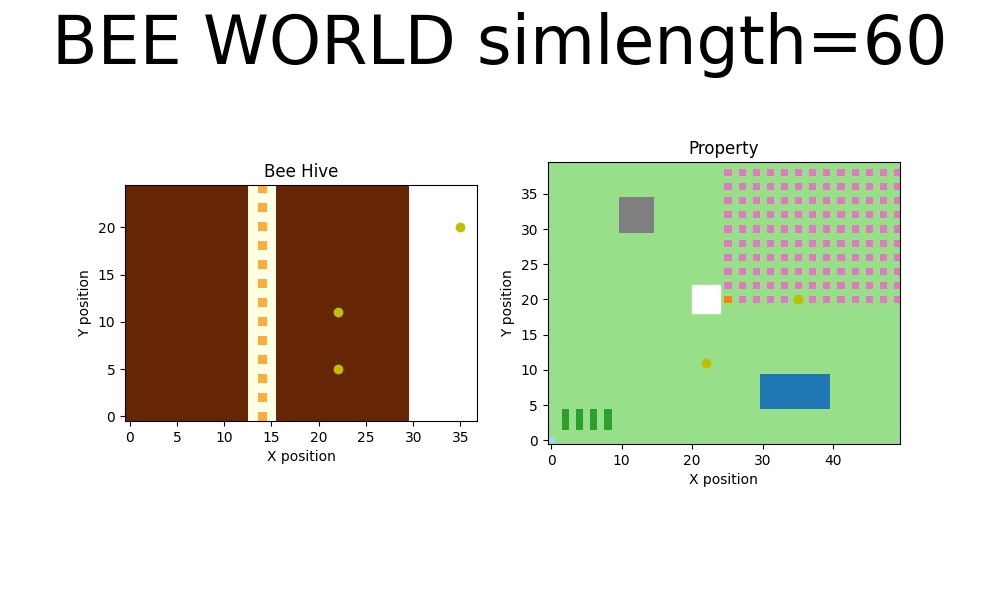
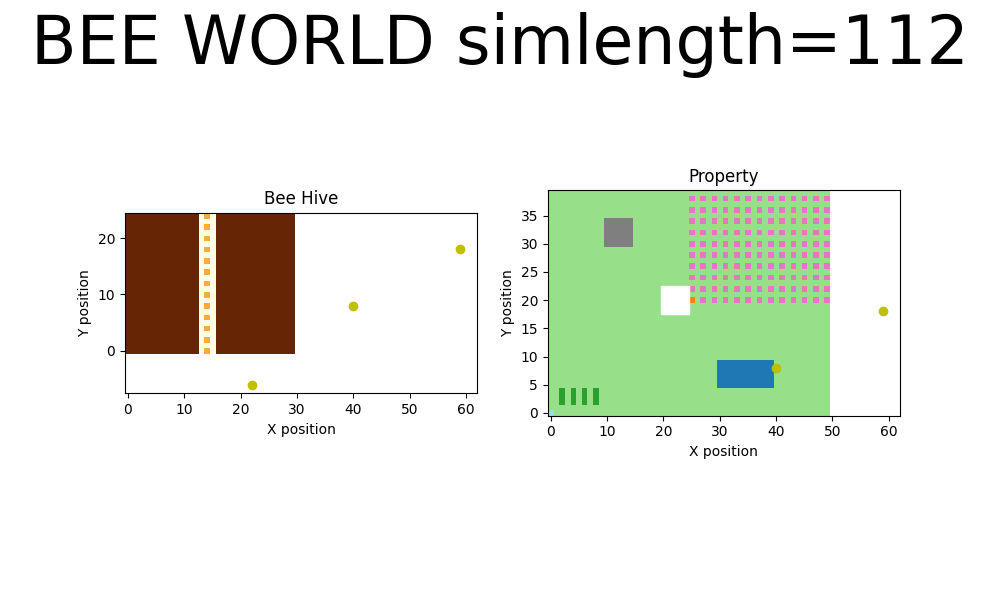
changed hive summoning

diff --git a/School/Assignments/Assessment/main.py b/School/Assignments/Assessment/main.py
@@ -37,13 +37,14 @@ B_COLFULEXP = 0.5 ## exponent to make shit more colourful
 B_COLLESEXP = 1.1 ## exponent to make shit more duller (idk ts some wizard stuff tbh)
 B_BORDER = 0.5 # darkerns the border by this much (reduces rgb by a factor of ts)
 B_BORDERTHRESH = 8 # size of a tile in order for border to be drawn
-B_DETECT = 5 # THIS IS VERY IMPORTANT ! THIS IS THE BEE DETECTION RADIUS OF EVERYTHING
-B_SEP_THRESHOLD = 1.5# IMPORTANT FOR SEPARATION. this is the min distance a boid/bee wants to be from another bee
+B_DETECT = 6 # THIS IS VERY IMPORTANT ! THIS IS THE BEE DETECTION RADIUS OF EVERYTHING
+B_SEP_THRESHOLD = 1# IMPORTANT FOR SEPARATION. this is the min distance a boid/bee wants to be from another bee
 B_MAX_V = 0.12 # max velocity
 
 # hive constant
 H_INITIAL_WORKERS = 100
 H_INITIAL_QUEENS = 1
+H_BEE_COOLDOWN = 30 # number of frames before a bee can exit/enter
 
 scaled = INITIAL_WORLD_SIZE/MAP_SIZE
 
@@ -329,18 +330,38 @@ class Hive():
         self.pos=pygame.Vector2(x,y)
 
         self.workerspop = H_INITIAL_WORKERS
+        self.numbeesinside = self.workerspop
         self.queenpop = H_INITIAL_QUEENS
+        self.bees_inside = []
+        self.bees_outside = []
+
+        self.internal_cooldown = 0
+
+        self.beelook = 0
 
         self.size = self.workerspop + self.queenpop
         print(self.size)
 
         for i in range(self.workerspop):
-            offset_pos = [((random.random()-0.5)*20), ((random.random()-0.5)*20)]
-            sim.add(Creature(x+offset_pos[0]+self.size/8, y+offset_pos[1]+self.size/8))
+            offset_pos = [((random.random()-0.5)*100), ((random.random()-0.5)*100)]
+            self.bees_inside.append(Creature(x, y))
 
     def update(self, manager):
-        self.size = self.workerspop + self.queenpop
-        
+        # self.size = self.workerspop + self.queenpop
+        if self.internal_cooldown == 0 and len(self.bees_inside) > 0:
+            # bee to look at variable
+
+            # for every bee in inside
+            bee = self.bees_inside[self.beelook]
+            if bee.seeking_honey == True:
+                sim.add(bee) # adds bee to the simulation since they are seeking it. once i add a hive view this will be edited
+                self.bees_inside.pop(self.beelook) # always pops the 0th bee 
+                self.bees_outside.append(bee)
+            else:
+                self.beelook += 1
+            self.internal_cooldown = H_BEE_COOLDOWN
+        elif self.internal_cooldown > 0 :
+            self.internal_cooldown -= 1
 
         self.draw()
 
@@ -350,7 +371,7 @@ class Hive():
 
         screen_pos = gridpos2screen(self.pos)
 
-        pygame.draw.rect(screen, (255, 255, 0), (screen_pos.x, screen_pos.y, scaled/2, scaled/2))
+        pygame.draw.rect(screen, (255, 255, 0), (screen_pos.x, screen_pos.y, scaled*4, scaled*4))
 
 class Creature():
     def __init__(self, x, y):
@@ -367,7 +388,7 @@ class Creature():
         self.acceleration = pygame.Vector2(0,0)
 
         # self.acceleration = pygame.Vector2((random.random()-0.5)/100,(random.random()-0.5)/100)
-        self.velocity = pygame.Vector2((random.random()-0.5)/1,(random.random()-0.5)/1)
+        self.velocity = pygame.math.Vector2.rotate(pygame.Vector2(0.9, 0.9), random.randint(-360, 360))
 
         self.speed = pygame.math.Vector2.magnitude(self.velocity)
         # self.velocity = pygame.Vector2(0,0)
@@ -395,9 +416,12 @@ class Creature():
 
         self.velocity += self.acceleration
 
-        fac = 30
-        self.velocity += pygame.Vector2((random.random()-0.5)/fac,(random.random()-0.5)/fac)
 
+        
+        fac = 30 # angle factor
+        rotate = (random.random() - 0.5)*fac
+        self.velocity = pygame.math.Vector2.rotate(self.velocity, rotate)
+        
         self.speed = pygame.math.Vector2.magnitude(self.velocity)
         if self.velocity.x >= B_MAX_V:
             self.velocity.x = B_MAX_V
@@ -410,9 +434,9 @@ class Creature():
         # print(self.velocity
 
         # map velocity + dampen
-        mapvalue = (1-(maparr[round(self.pos.x), round(self.pos.y)]))**(1/5)
-        if mapvalue >= 0.865: mapvalue = 0.99
-        self.velocity *= mapvalue**(1/5) # dampens
+        # mapvalue = (1-(maparr[round(self.pos.x), round(self.pos.y)]))**(1/5)
+        # if mapvalue >= 0.865: mapvalue = 0.99
+        # self.velocity *= mapvalue**(1/5) # dampens
 
         self.pos += self.velocity
         
@@ -468,14 +492,14 @@ class Creature():
                 self.closestflowerpos = flower.pos
                 # print("CLOSEST FLOWER DETECTED!!", flower.pos)
         if self.seeking_honey == True:
-            self.goFlower()
+            # self.goFlower()
             if distance(self.pos, self.closestflowerpos) <= B_DETECT/4:
                 self.honey += 0.2
     
     def goFlower(self):
         # get vector from closest flower and itself
         # im not sure why but the current implementation the bees are circling the flowers
-        if distance(self.pos, self.closestflowerpos) <= B_DETECT/0.5: 
+        if distance(self.pos, self.closestflowerpos) <= B_DETECT: 
             diffVec = + self.closestflowerpos - self.pos
             # normalise it, multiply by speed, and multplied by distance from flower
             outputVec = pygame.math.Vector2(diffVec) * self.speed * distance(self.closestflowerpos, self.pos)
@@ -558,7 +582,7 @@ class Creature():
 
             diff = com - self.pos
 
-            dir = pygame.Vector2.normalize(diff) * self.speed * 3
+            dir = pygame.Vector2.normalize(diff) * self.speed
 
             # print("applying force of, ", dir)
             return(dir)
